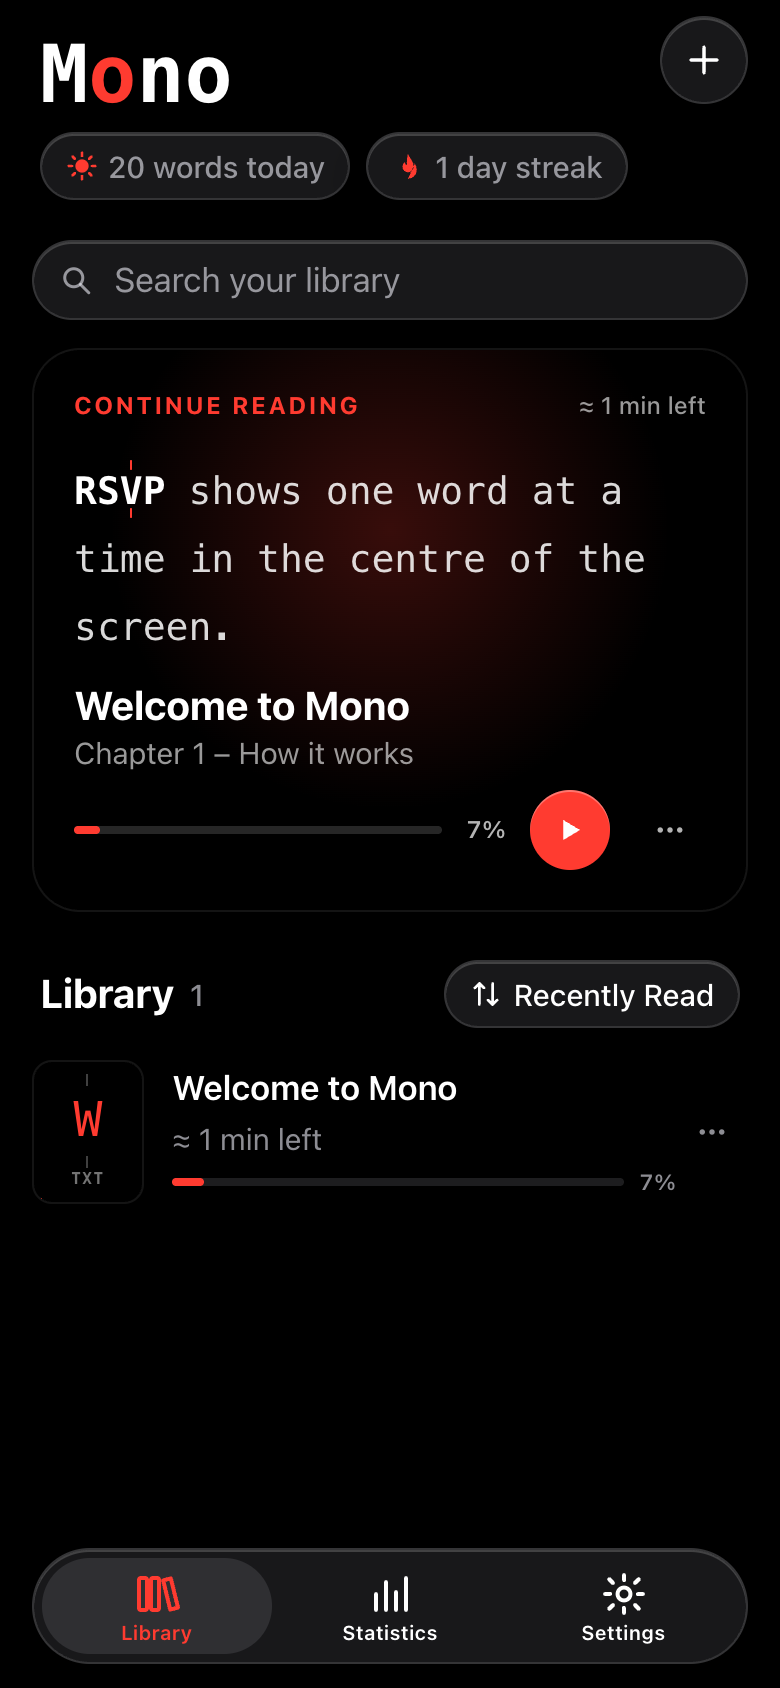
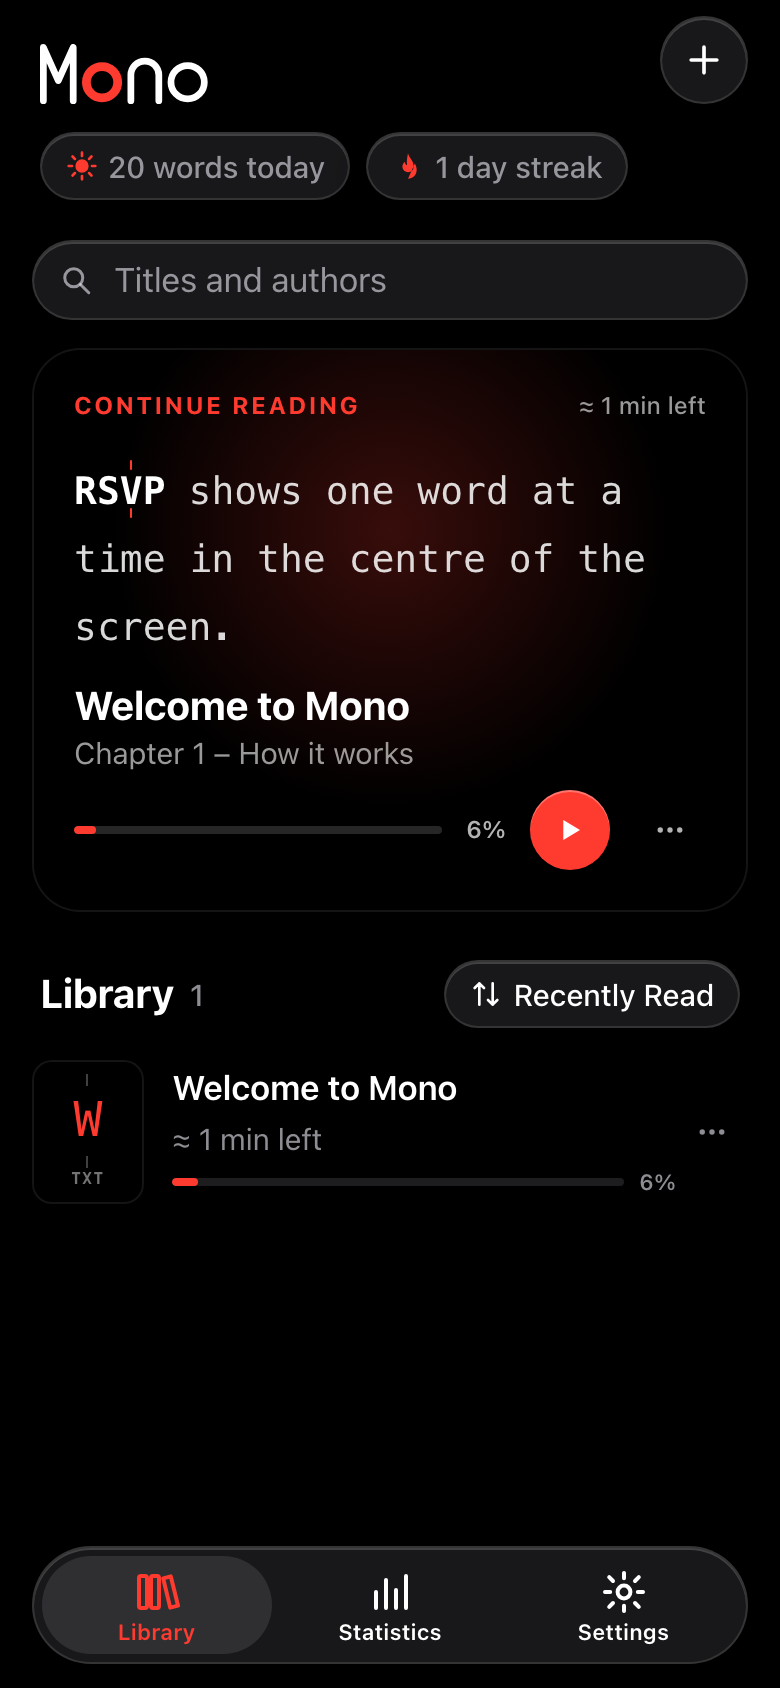
Fresh screenshots from the app, by script; unit tests only under src
scripts/screenshots.mjs (npm run screenshots) takes the install dialogs' and
landing page's screenshots from the build: the guide read up to its second
"RSVP", paused, and the library with the new wordmark.

Vitest had also picked up the Playwright specs in e2e/, so npm test failed
since the end-to-end tests were added; it now runs src/**/*.test.ts only.
Tools ignore .claude/.

diff --git a/eslint.config.js b/eslint.config.js
@@ -4,7 +4,7 @@ import globals from 'globals'
 import tseslint from 'typescript-eslint'
 
 export default tseslint.config(
-  { ignores: ['dist', 'dev-dist', 'node_modules'] },
+  { ignores: ['dist', 'dev-dist', 'node_modules', '.claude', 'test-results', 'playwright-report'] },
   js.configs.recommended,
   ...tseslint.configs.recommended,
   {
@@ -24,6 +24,11 @@ export default tseslint.config(
   {
     files: ['scripts/**/*.mjs', 'vite.config.ts', 'eslint.config.js', 'e2e/**/*.ts', 'playwright.config.ts'],
     languageOptions: { globals: globals.node },
+  },
+  {
+    // Runs in Node, with functions evaluated in the page.
+    files: ['scripts/screenshots.mjs'],
+    languageOptions: { globals: { ...globals.node, ...globals.browser } },
   },
   {
     files: ['landing/**/*.js'],

diff --git a/vite.config.ts b/vite.config.ts
@@ -232,5 +232,7 @@ export default defineConfig({
   },
   test: {
     environment: 'jsdom',
+    // Unit tests only: e2e/ is Playwright's.
+    include: ['src/**/*.test.ts'],
   },
 })
